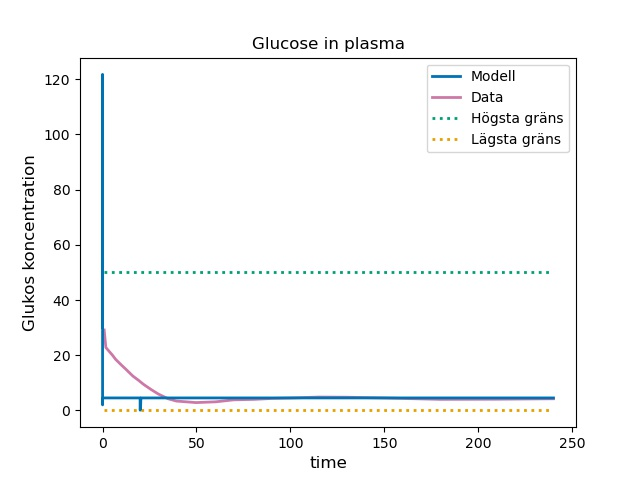
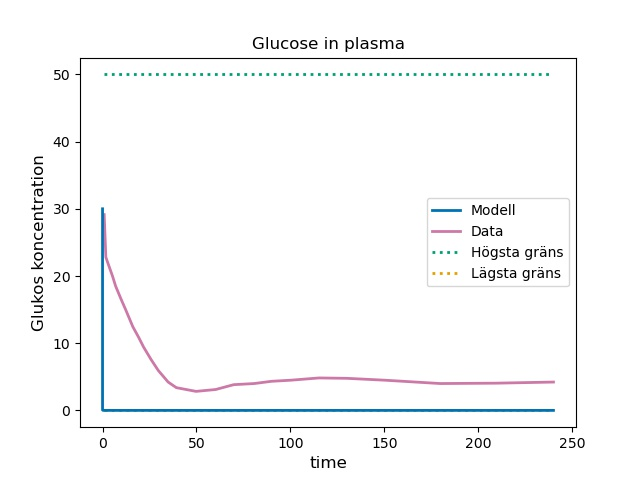
update week16 with inj

diff --git a/week17_open_loop_inj.py b/week17_open_loop_inj.py
@@ -59,13 +59,13 @@ def open_loop(t,x,b):
     dG = k4*C + k1*H - k2*G*I
 
     # Insulin plasma [2]
-    dI = k3*G - k2*I*G
+    dI = k3*G - k2*I*G*(10**-9)
 
     # GLucose liver [3]
-    dC = -k4*C + k6*E + k7*F
+    dC = -k4*C + k6*(10**-9)*E + k7*F
 
     # Glucose musle [4]
-    dM = k2*G*I - k5*M
+    dM = k2*(10**-9)*G*I - k5*M
 
     # Glucose intake [5]
     dH = -k1*H
